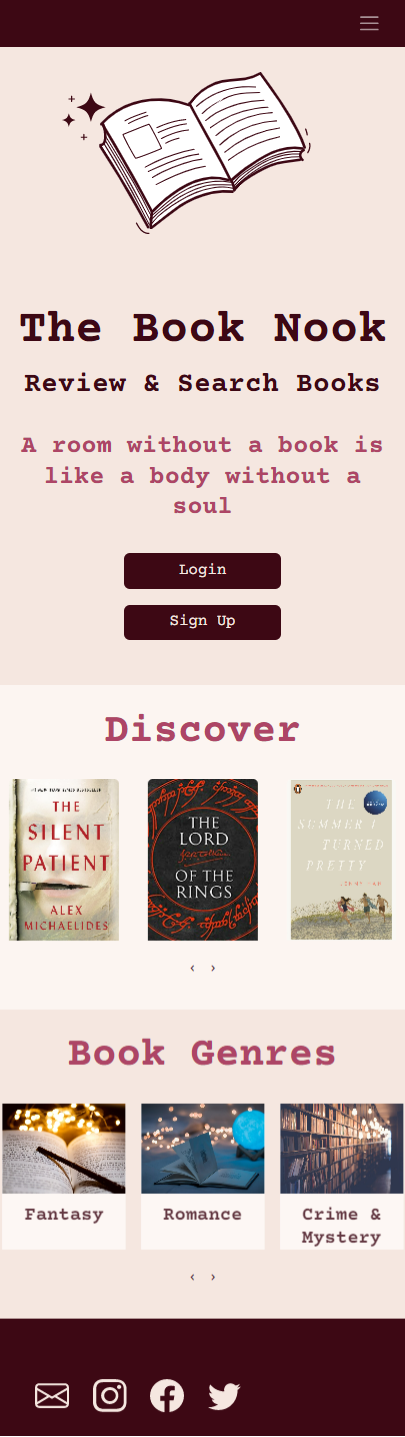
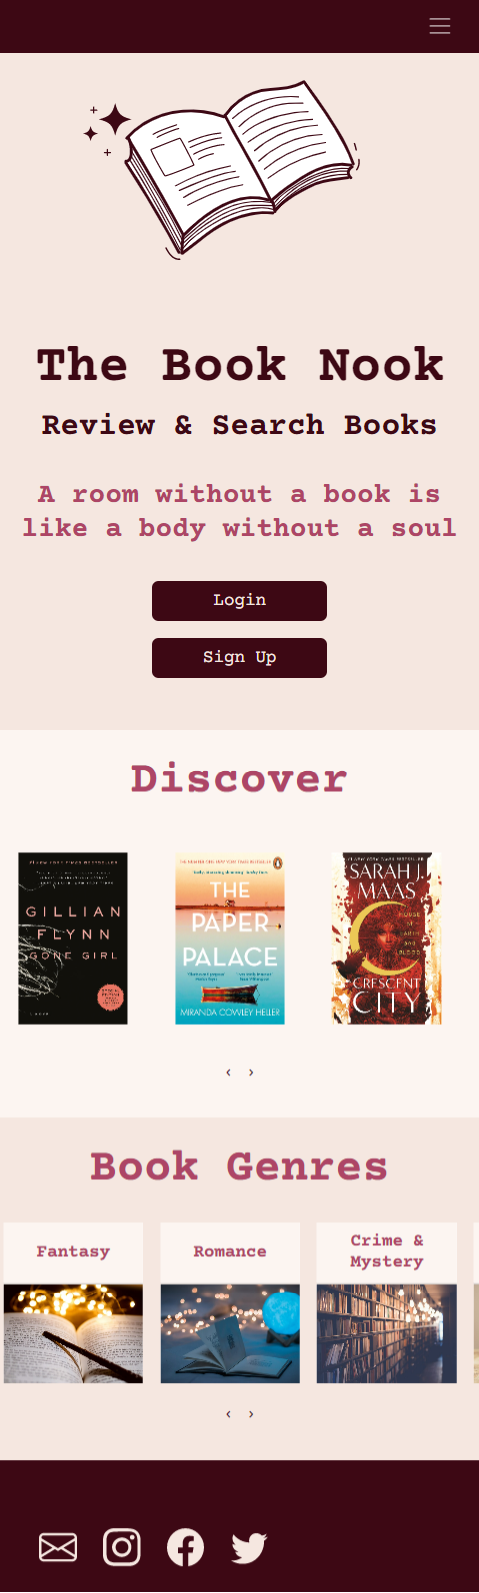
Add genre subsection to Home Page section in README.md

diff --git a/README.md b/README.md
@@ -47,6 +47,8 @@ Through the use of the Kanban board in the projects view in Github, the project 
 * In Progress
 * Done
 
+![Kanban board github](docs/images/agile-kanban.png)
+
 Github issues were used to create User Stories and any other Fixes or Updates for the project. This was where the project user was assigned, labels were added to provide clarity, and the story was added to the appropriate Iteration and the project. Each User Story, Fix or Update had a clear title, acceptance criteria and smaller tasks (if appropriate). 
 
 Milestones were used to create Iterations. There were 3 Iterations each dated appropriately. User Stories were completed based on the current Iteration that was in progress. Each Iteration was completed on time.
@@ -220,6 +222,19 @@ Each page, except the Home Page, has a clear heading when landing on the page. T
  * Below the hero section is a carousel of books, intending to entice the user. The section is called Discover, and draws from the entire database of approved books and those with uploaded book images, in random order. If the user clicks on a book, the link brings the user to that books' page.
  * Below this, there is a Genre section. This is the only place the Book genres can be accessed. If the user clicks on a book genre, the user is brought to a page with that genres books listed in only.
  * Each section is fully responsive.
+
+ ### Genre Section
+
+ ![Genre Desktop Page](docs/images/genre-desktop.png)
+
+ * The Genre page can only be accessed by the user from the homepage and from within the genre page itself.
+ * The page is specific to the genre you have clicked on and only contains approved books from that particular category.
+ * The title and heading of the page is the specific category the user clicked on.
+ * The books are listed, giving the user a preview of each, which the user can then click on to go to a specific book in more detail.
+ * The user can also switch categories from within the page at the bottom.
+ * The page is fully responsive.
+
+ ![Genre Mobile Page](docs/images/genre-mobile.png)
 
 ## Log In Page
 
